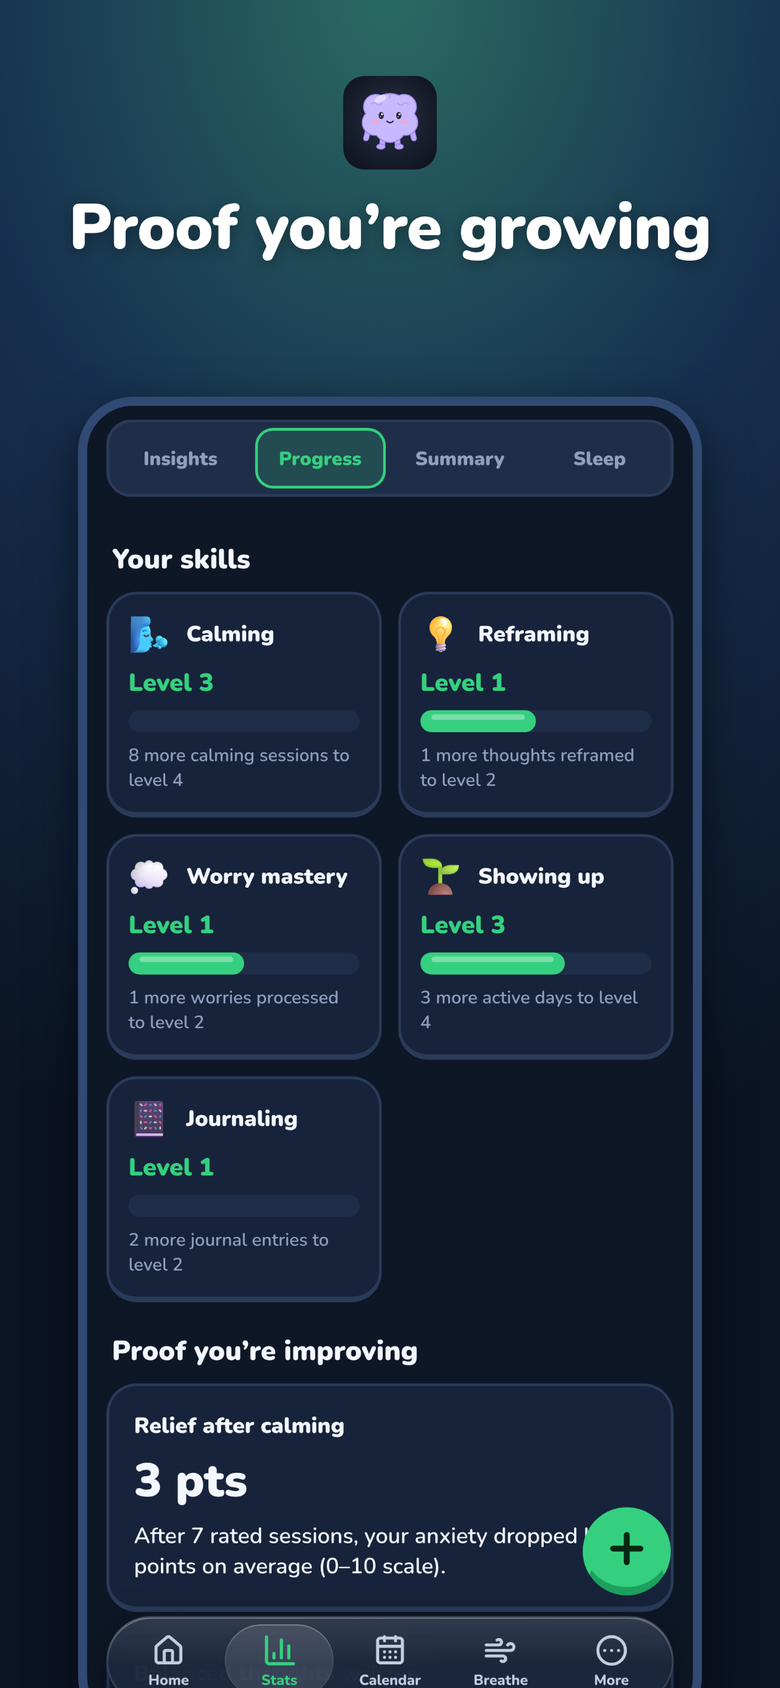
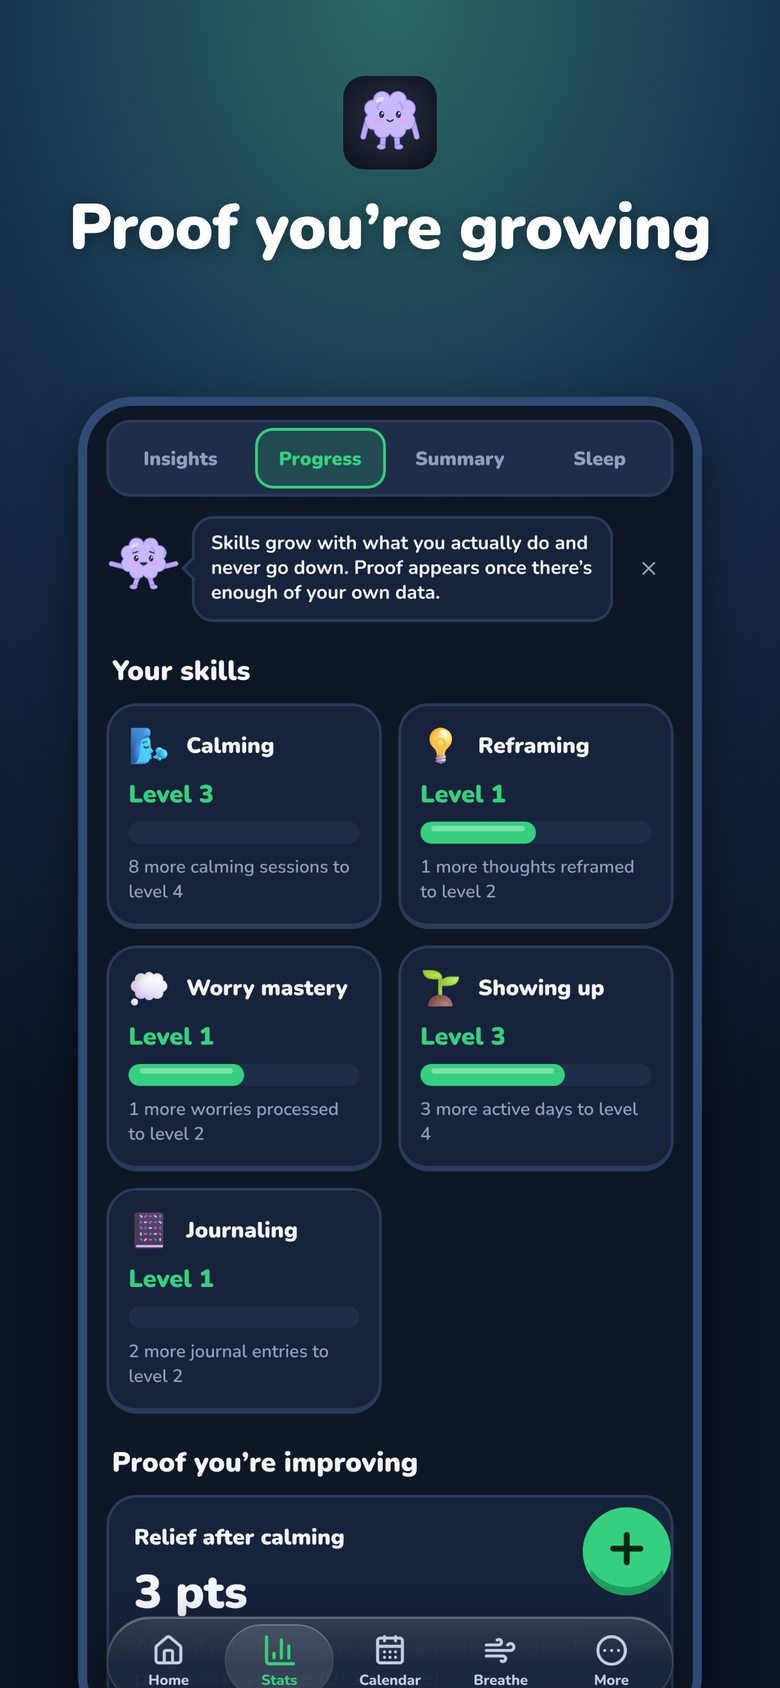
Home tools strip scrolls (Thoughts leads; Sleep, Progress, Summary, Coins added), Pal tips in every section, splash screen; fix coin toast that could stay forever
- Entries: tools row is a sideways-scrolling strip; 'All entries' row at the bottom is now the Thoughts tile; Sleep/Progress/Summary/Coins open as full screens
- PalTip: one-line tip per section, dismiss persists, More -> Show Pal's tips again
- Splash component + static boot markup in index.html instead of 'Loading…'
- Bug: the '+N coins' toast timer lived in an effect that re-ran when coins changed again (spend, undo), cancelling the hide; own timer now. e2e failed before the fix
- e2e: 67 tests; store screenshots regenerated with the new Pal

Claude-Session: https://claude.ai/code/session_01NENw22NRLju7qRwaXWFpgL

diff --git a/src/App.tsx b/src/App.tsx
@@ -20,6 +20,11 @@ import ParkWorry from './components/ParkWorry'
 import { JournalEditor, JournalList } from './components/Journal'
 import FocusFlow from './components/FocusFlow'
 import Onboarding from './components/Onboarding'
+import Splash from './components/Splash'
+import Sleep from './components/Sleep'
+import Progress from './components/Progress'
+import Summary from './components/Summary'
+import Wallet from './components/Wallet'
 import type { JournalEntry } from './lib/journal.ts'
 
 type Tab = 'entries' | 'stats' | 'calendar' | 'breathe' | 'more'
@@ -40,16 +45,18 @@ function Shell() {
   const finishOnboarding = () => { try { localStorage.setItem('bp.onboarded', '1') } catch { /* ignore */ } setOnboarded(true) }
   useEffect(() => { if (ready && !onboarded && hasData) finishOnboarding() }, [ready, onboarded, hasData])   // people who already use the app never see it
   useGuardRelock()
-  const [coinToast, setCoinToast] = useState(0)
+  const [coinToast, setCoinToast] = useState<{ n: number; id: number } | null>(null)
   const lastCoins = useRef<number | null>(null)
   // A quiet "+N coins" when you earn some (never on load, never when coins drop from spending).
   useEffect(() => {
     if (!ready) return
     const prev = lastCoins.current; lastCoins.current = coins
-    if (prev !== null && coins > prev) { setCoinToast(coins - prev); const t = setTimeout(() => setCoinToast(0), 2600); return () => clearTimeout(t) }
+    if (prev !== null && coins > prev) setCoinToast({ n: coins - prev, id: Date.now() + Math.random() })
   }, [ready, coins])
+  // Its own timer: a later change in coins (spending, undoing an entry) must never cancel the hide.
+  useEffect(() => { if (!coinToast) return; const t = setTimeout(() => setCoinToast(null), 2600); return () => clearTimeout(t) }, [coinToast])
   const [tab, setTab] = useState<Tab>('entries')
-  const [screen, setScreen] = useState<'guard' | 'journal' | 'entries' | 'search' | null>(null)   // full-screen pages opened from Home
+  const [screen, setScreen] = useState<'guard' | 'journal' | 'thoughts' | 'search' | 'sleep' | 'progress' | 'summary' | 'coins' | null>(null)   // full-screen pages opened from Home
   const [menu, setMenu] = useState(false)
   const [composeAt, setComposeAt] = useState<Date | null>(null)
   const [otherDay, setOtherDay] = useState(false)
@@ -94,7 +101,7 @@ function Shell() {
   const overlayOpen = !!screen || menu || !!composeAt || sos || worryTime || park || focusOpen || !!journalOpen || !!cel
   const nativeBar = useNativeTabs(NATIVE_ITEMS, tab, !ready || needsLogin || recovery || (!onboarded && !hasData) || overlayOpen, id => { setMoreView(null); setTab(id as Tab) })
 
-  if (!ready) return <div className="center-screen muted">Loading…</div>
+  if (!ready) return <Splash />
   if (needsLogin || recovery) return <Login />
   if (!onboarded && !hasData) return <Onboarding onDone={finishOnboarding} />
 
@@ -104,7 +111,7 @@ function Shell() {
   return (
     <>
       <div className="app">
-        {tab === 'entries' && <Entries onTool={(t: HomeTool) => (t === 'worry' ? setWorryTime(true) : setScreen(t))} onAllEntries={search => setScreen(search ? 'search' : 'entries')} onStep={() => setFocusOpen(true)} onCompose={m => { setComposeMood(m); setComposeAt(new Date()) }} onWorry={() => setWorryTime(true)} onBreathe={() => setTab('breathe')} onAllAnchors={() => setCel({ emoji: 'trophy', title: 'Every anchor done!', sub: 'You showed up for yourself today. That counts.' })} onSos={() => setSos(true)} onSupport={() => { setMoreView('support'); setTab('more') }} />}
+        {tab === 'entries' && <Entries onTool={(t: HomeTool) => (t === 'worry' ? setWorryTime(true) : setScreen(t))} onAllEntries={() => setScreen('search')} onStep={() => setFocusOpen(true)} onCompose={m => { setComposeMood(m); setComposeAt(new Date()) }} onWorry={() => setWorryTime(true)} onBreathe={() => setTab('breathe')} onAllAnchors={() => setCel({ emoji: 'trophy', title: 'Every anchor done!', sub: 'You showed up for yourself today. That counts.' })} onSos={() => setSos(true)} onSupport={() => { setMoreView('support'); setTab('more') }} />}
         {tab === 'stats' && <Stats />}
         {tab === 'calendar' && <CalendarPage onNewOn={d => { const n = new Date(); d.setHours(n.getHours(), n.getMinutes()); start(d) }} />}
         {tab === 'breathe' && <Breathe onSos={() => setSos(true)} />}
@@ -152,12 +159,16 @@ function Shell() {
       {composeAt && <NewEntry date={composeAt} initialMood={composeMood} onSaved={() => { setComposeAt(null); setTab(t => (t === 'calendar' ? t : 'entries')); setCel({ emoji: 'party', title: 'Entry saved!', sub: 'Checking in with yourself is a skill — you just practised it.' }) }} onClose={() => { setComposeAt(null); setTab(t => (t === 'calendar' ? t : 'entries')) }} />}
       {screen === 'guard' && <Screen title="Focus guard" onClose={() => setScreen(null)}><Guard /></Screen>}
       {screen === 'journal' && <Screen title="Journal" onClose={() => setScreen(null)}><JournalList onOpen={e => setJournalOpen({ entry: e })} onWrite={() => setJournalOpen({})} /></Screen>}
-      {(screen === 'entries' || screen === 'search') && <AllEntries search={screen === 'search'} onClose={() => setScreen(null)} />}
+      {(screen === 'thoughts' || screen === 'search') && <AllEntries search={screen === 'search'} onClose={() => setScreen(null)} />}
+      {screen === 'sleep' && <Screen title="Sleep" onClose={() => setScreen(null)}><Sleep /></Screen>}
+      {screen === 'progress' && <Screen title="Progress" onClose={() => setScreen(null)}><Progress /></Screen>}
+      {screen === 'summary' && <Screen title="Summary" onClose={() => setScreen(null)}><Summary /></Screen>}
+      {screen === 'coins' && <Screen title="Coins" onClose={() => setScreen(null)}><Wallet /></Screen>}
       {focusOpen && <FocusFlow onClose={() => setFocusOpen(false)} />}
       {journalOpen && <JournalEditor entry={journalOpen.entry} onClose={() => setJournalOpen(null)} onSaved={() => { const edited = !!journalOpen.entry; setJournalOpen(null); if (!edited) setCel({ emoji: 'notebook', title: 'Saved to your journal', sub: 'Writing it down counts — thank you for taking the time.' }) }} />}
       {park && <ParkWorry onClose={() => setPark(false)} onOpenWorryTime={() => { setPark(false); setWorryTime(true) }} />}
       {worryTime && <WorryTime onClose={() => setWorryTime(false)} />}
-      {coinToast > 0 && <div className="coin-toast" role="status"><Emoji name="star" size={20} /> +{coinToast} {coinToast === 1 ? 'coin' : 'coins'}</div>}
+      {coinToast && <div className="coin-toast" role="status"><Emoji name="star" size={20} /> +{coinToast.n} {coinToast.n === 1 ? 'coin' : 'coins'}</div>}
       {cel && <Celebrate c={cel} onClose={() => setCel(null)} />}
     </>
   )

diff --git a/src/pages/Entries.tsx b/src/pages/Entries.tsx
@@ -13,23 +13,29 @@ import { worryStats } from '../lib/worries'
 import { loadGuard } from '../lib/extras'
 import { monthLabel } from '../components/ui'
 import EntryCard from '../components/EntryCard'
-import { PalEmpty } from '../components/Pal'
+import { PalEmpty, PalTip } from '../components/Pal'
 
 const dayNum = (iso: string) => { const d = new Date(iso); return Math.floor(new Date(d.getFullYear(), d.getMonth(), d.getDate()).getTime() / 864e5) }
 
-export type HomeTool = 'guard' | 'worry' | 'journal'
+export type HomeTool = 'thoughts' | 'journal' | 'worry' | 'guard' | 'sleep' | 'progress' | 'summary' | 'coins'
 
 /** Home: today's check-in, the secondary tools, anchors and today's entries. */
 export default function Entries({ onTool, onAllEntries, onSos, onSupport, onAllAnchors, onCompose, onWorry, onBreathe, onStep }: { onTool: (t: HomeTool) => void; onAllEntries: (search?: boolean) => void; onSos: () => void; onSupport: () => void; onAllAnchors: () => void; onCompose: (mood: number) => void; onWorry: () => void; onBreathe: () => void; onStep: () => void }) {
-  const { thoughts, deleteThought, streak, anchors, worries, journal } = useStore()
+  const { thoughts, deleteThought, streak, anchors, worries, journal, coins } = useStore()
   const [editAnchors, setEditAnchors] = useState(false)
   const todayKey = dayKey(new Date())
   const today = useMemo(() => thoughts.filter(t => dayKey(t.createdAt) === todayKey), [thoughts, todayKey])
   const parked = worryStats(worries).open
+  // A strip you can scroll sideways: thoughts lead, then the things that used to be buried in Stats and More.
   const tools: { id: HomeTool; emoji: string; label: string; sub: string }[] = [
-    { id: 'guard', emoji: 'shield', label: 'Focus guard', sub: loadGuard().enabled ? 'On' : 'Off' },
-    { id: 'worry', emoji: 'worry', label: 'Worry time', sub: parked ? `${parked} parked` : 'Nothing parked' },
+    { id: 'thoughts', emoji: 'nib', label: 'Thoughts', sub: thoughts.length ? `${thoughts.length} ${thoughts.length === 1 ? 'entry' : 'entries'}` : 'All entries' },
     { id: 'journal', emoji: 'notebook', label: 'Journal', sub: journal.length ? `${journal.length} ${journal.length === 1 ? 'entry' : 'entries'}` : 'Write' },
+    { id: 'worry', emoji: 'worry', label: 'Worry time', sub: parked ? `${parked} parked` : 'Nothing parked' },
+    { id: 'guard', emoji: 'shield', label: 'Focus guard', sub: loadGuard().enabled ? 'On' : 'Off' },
+    { id: 'sleep', emoji: 'sleep', label: 'Sleep', sub: 'Last night' },
+    { id: 'progress', emoji: 'chart', label: 'Progress', sub: 'Your levels' },
+    { id: 'summary', emoji: 'memo', label: 'Summary', sub: 'Week in words' },
+    { id: 'coins', emoji: 'star', label: 'Coins', sub: String(coins) },
   ]
 
   return (
@@ -48,9 +54,10 @@ export default function Entries({ onTool, onAllEntries, onSos, onSupport, onAllA
         </div>
       )}
       <TodayCard onDetails={onCompose} onWorry={onWorry} onBreathe={onBreathe} onStep={onStep} />
+      <PalTip id="home-tools" pose="wave">Swipe this row sideways: thoughts, journal, sleep, progress and more live here.</PalTip>
       <div className="tools-row" role="group" aria-label="Tools">
         {tools.map(t => (
-          <button key={t.id} className="card tool" onClick={() => onTool(t.id)}>
+          <button key={t.id} className={`card tool ${t.id === 'thoughts' ? 'lead' : ''}`} onClick={() => onTool(t.id)}>
             <Emoji name={t.emoji} size={34} /><b>{t.label}</b><span className="sub">{t.sub}</span>
           </button>
         ))}
@@ -67,9 +74,6 @@ export default function Entries({ onTool, onAllEntries, onSos, onSupport, onAllA
         </button>
       )}
       {today.map(t => <EntryCard key={t.id} t={t} onDelete={deleteThought} />)}
-      <button className="card row all-entries" onClick={() => onAllEntries()}>
-        <Emoji name="memo" size={28} /><span style={{ flex: 1 }}>All entries</span><span className="muted small">{thoughts.length}</span><ChevronRight size={20} className="muted" />
-      </button>
 
       {editAnchors && <Sheet onClose={() => setEditAnchors(false)}><div className="sheet-scroll"><div className="row spread"><b style={{ fontSize: 20 }}>Daily anchors</b><button className="linkbtn" onClick={() => setEditAnchors(false)}>Done</button></div><AnchorsManager /></div></Sheet>}
     </>
@@ -92,6 +96,7 @@ export function AllEntries({ search = false, onClose }: { search?: boolean; onCl
 
   return (
     <Screen title="Entries" onClose={onClose} right={<button className="glass round green" aria-label="Search" onClick={() => { setSearching(!searching); setQ('') }}><Search size={24} /></button>}>
+      <PalTip id="thoughts" pose="think">Every thought record, month by month. Tap one to open it, or search for a word, feeling or tag.</PalTip>
       <div className="navmonth month-row">
         <button className="arrow" aria-label="Previous month" onClick={() => shift(-1)}><ChevronLeft size={20} /></button>
         <span className="title">{monthLabel(month)}</span>

diff --git a/src/styles.css b/src/styles.css
@@ -386,8 +386,9 @@ input.input[type=time], input.input[type=date] { -webkit-appearance: none; appea
 .rep-btn { min-height: 72px; font-size: 22px; }
 
 /* Home: secondary tools row */
-.tools-row { display: grid; grid-template-columns: repeat(3, 1fr); gap: 10px; margin-bottom: 14px; }
-.card.tool { margin: 0; padding: 12px 6px; display: flex; flex-direction: column; align-items: center; gap: 4px; text-align: center; min-width: 0; }
+.tools-row { display: flex; gap: 10px; margin: 0 -14px 14px; padding: 2px 14px 8px; overflow-x: auto; scroll-snap-type: x proximity; scrollbar-width: none; -webkit-overflow-scrolling: touch; }
+.tools-row::-webkit-scrollbar { display: none; }
+.card.tool { flex: 0 0 106px; scroll-snap-align: start; margin: 0; padding: 12px 6px; display: flex; flex-direction: column; align-items: center; gap: 4px; text-align: center; min-width: 0; }
 .tool b { font-size: 14px; line-height: 1.15; } .tool .sub { font-size: 12px; font-weight: 700; color: var(--muted); }
 .all-entries { width: 100%; text-align: left; }
 
@@ -410,3 +411,14 @@ input.input[type=time], input.input[type=date] { -webkit-appearance: none; appea
 .notes-tools button.on { color: var(--accent); background: rgba(255,255,255,.1); }
 .notes-count { flex: 1; text-align: center; color: var(--muted); font-size: 13px; font-weight: 700; }
 .notes-panel { bottom: calc(var(--safe-b) + 66px); left: 10px; right: 10px; max-width: 620px; padding: 14px; border-radius: 24px; }
+
+/* ---- splash ---- */
+.splash { min-height: 100dvh; display: grid; place-content: center; justify-items: center; gap: 6px; background: var(--bg); text-align: center; }
+.splash h1 { margin: 6px 0 0; font-size: 32px; letter-spacing: -.01em; }
+.splash p { margin: 0; color: var(--muted); font-weight: 700; }
+.card.tool.lead { border-color: var(--accent); }
+
+.pal-tip { display: flex; align-items: center; gap: 8px; margin: 0 0 12px; }
+.pal-tip .bubble { position: relative; flex: 1; background: var(--card); border: 2px solid var(--edge); border-radius: 16px; padding: 9px 12px; font-size: 14px; font-weight: 700; line-height: 1.3; }
+.pal-tip .bubble::before { content: ''; position: absolute; left: -7px; top: 50%; width: 11px; height: 11px; background: var(--card); border-left: 2px solid var(--edge); border-bottom: 2px solid var(--edge); transform: translateY(-50%) rotate(45deg); }
+.pal-tip .x { width: 36px; height: 36px; border-radius: 50%; display: grid; place-items: center; color: var(--muted); flex: none; }

diff --git a/src/pages/More.tsx b/src/pages/More.tsx
@@ -16,6 +16,7 @@ import { JournalList } from '../components/Journal'
 import Rituals from '../components/Rituals'
 import Wallet from '../components/Wallet'
 import Legal from '../components/Legal'
+import { PalTip, resetTips } from '../components/Pal'
 import Guard from '../components/Guard'
 import { loadGuard } from '../lib/extras'
 import { APP_VERSION } from '../lib/appInfo.ts'
@@ -38,6 +39,7 @@ export default function More({ initial = null, onWorry, onJournal }: { initial?:
   const [health, setHealth] = useState(healthEnabled)
   const [healthMsg, setHealthMsg] = useState('')
   const [msg, setMsg] = useState('')
+  const [tipsBack, setTipsBack] = useState(false)
   const photos = thoughts.flatMap(t => t.photos)
   const meta = session?.user.user_metadata?.name as string | undefined
   const name = meta || session?.user.email?.split('@')[0]
@@ -172,6 +174,7 @@ export default function More({ initial = null, onWorry, onJournal }: { initial?:
         <span className="glass pill-btn">{name ? `Hi, ${name}` : 'Hi there'}</span>
       </div>
 
+      <PalTip id="more" pose="idle">Reminders, Apple Health, your account and everything else live here.</PalTip>
       <div className="list">
         {mode === 'cloud' && <Row icon={<Emoji name="sunglasses" size={30} />} color="var(--card2)" label="Account" value={name} onClick={() => setView('account')} />}
         <Row icon={<Emoji name="star" size={30} />} color="var(--card2)" label="Coins" value={String(coins)} onClick={() => setView('coins')} />
@@ -191,6 +194,7 @@ export default function More({ initial = null, onWorry, onJournal }: { initial?:
         <Row icon={<Emoji name="sparkles" size={30} />} color="var(--card2)" label="About & legal" onClick={() => setView('legal')} />
         {mode === 'cloud' && <Row icon={<LogOut size={24} />} color="var(--card2)" label="Sign out" onClick={doSignOut} />}
       </div>
+      <p className="muted small" style={{ textAlign: 'center' }}><button className="linkbtn" onClick={() => { resetTips(); setTipsBack(true) }} disabled={tipsBack}>{tipsBack ? 'Pal’s tips are back' : 'Show Pal’s tips again'}</button></p>
       <p className="muted small" style={{ textAlign: 'center' }}>Brain Pal {APP_VERSION} · {thoughts.length} entries · {sessions.length} breathing sessions</p>
     </>
   )

diff --git a/src/components/Pal.tsx b/src/components/Pal.tsx
@@ -1,4 +1,5 @@
-import { useMemo, type ReactNode } from 'react'
+import { useMemo, useState, type ReactNode } from 'react'
+import { X } from 'lucide-react'
 import { palSvg, POSE_LABEL, type PoseName } from '../lib/pal.ts'
 
 export type PalMotion = 'bob' | 'wave' | 'breathe' | 'jump' | 'none'
@@ -17,4 +18,22 @@ export function PalSays({ pose = 'idle', size = 84, motion = 'bob', children }: 
 /** Empty state: Pal and one kind sentence instead of a grey box. */
 export function PalEmpty({ pose = 'think', children }: { pose?: PoseName; children: ReactNode }) {
   return <div className="card pal-empty"><Pal pose={pose} size={88} /><p>{children}</p></div>
+}
+
+const TIPS_KEY = 'bp.tips.off'
+const tipsOff = (): string[] => { try { const v = JSON.parse(localStorage.getItem(TIPS_KEY) ?? '[]'); return Array.isArray(v) ? v.filter((x): x is string => typeof x === 'string') : [] } catch { return [] } }
+export const resetTips = () => { try { localStorage.removeItem(TIPS_KEY) } catch { /* ignore */ } }
+
+/** Pal says what to do in this section, once: dismiss it and it stays away (More → "Show Pal's tips again" brings them back). */
+export function PalTip({ id, pose = 'think', children }: { id: string; pose?: PoseName; children: ReactNode }) {
+  const [off, setOff] = useState(() => tipsOff().includes(id))
+  if (off) return null
+  const hide = () => { try { localStorage.setItem(TIPS_KEY, JSON.stringify([...new Set([...tipsOff(), id])])) } catch { /* ignore */ } setOff(true) }
+  return (
+    <div className="pal-tip" role="note" aria-label="Tip from Pal">
+      <Pal pose={pose} size={54} />
+      <span className="bubble">{children}</span>
+      <button className="x" aria-label="Hide this tip" onClick={hide}><X size={16} /></button>
+    </div>
+  )
 }

diff --git a/src/pages/Breathe.tsx b/src/pages/Breathe.tsx
@@ -1,6 +1,6 @@
 import { useState } from 'react'
 import { useStore } from '../lib/store'
-import Pal from '../components/Pal'
+import { PalTip } from '../components/Pal'
 import BreathRunner, { type BreathResult } from '../components/BreathRunner'
 import { Toggle } from '../components/ui'
 import { Emoji } from '../lib/emoji'
@@ -53,8 +53,8 @@ export default function Breathe({ onSos }: { onSos: () => void }) {
         ? <div className="card"><BreathRunner pattern={pattern} cycles={cycles} vibrate={vibrate} sound={sound} onFinish={finish} /></div>
         : <>
           {done && <div className="card" style={{ textAlign: 'center' }}><Emoji name="lotus" size={64} /><div style={{ fontWeight: 900, fontSize: 20, marginTop: 6 }}>Nice work!</div><div className="muted">{done.cycles} rounds · {Math.floor(done.sec / 60)}m {done.sec % 60}s logged</div></div>}
+          <PalTip id="breathe" pose="breatheIn">Pick a pattern and follow the circle. A long, slow breath out is the secret.</PalTip>
           <div className="card">
-            <div style={{ display: 'grid', placeItems: 'center', marginBottom: 6 }}><Pal pose="breatheIn" motion="breathe" size={96} /></div>
             <div className="seg" role="tablist" aria-label="Pattern">
               {Object.keys(PRESETS).map(p => <button key={p} className={p === preset ? 'on' : ''} onClick={() => setPreset(p)}>{p}</button>)}
             </div>

diff --git a/index.html b/index.html
@@ -11,9 +11,16 @@
     <link rel="icon" type="image/svg+xml" href="/icon.svg" />
     <link rel="apple-touch-icon" href="/apple-touch-icon.png" />
     <title>Brain Pal</title>
+    <style>
+      html, body { margin: 0; background: #0e1726; }
+      .boot { min-height: 100dvh; display: grid; place-content: center; justify-items: center; gap: 14px; color: #e8edf8; font: 800 26px/1 system-ui, sans-serif; }
+      .boot img { border-radius: 28px; animation: bootBob 2.6s ease-in-out infinite; }
+      @keyframes bootBob { 50% { transform: translateY(-6px); } }
+      @media (prefers-reduced-motion: reduce) { .boot img { animation: none; } }
+    </style>
   </head>
   <body>
-    <div id="root"></div>
+    <div id="root"><div class="boot" aria-label="Brain Pal is loading"><img src="/icon-192.png" alt="" width="120" height="120" /><b>Brain Pal</b></div></div>
     <script type="module" src="/src/main.tsx"></script>
   </body>
 </html>

diff --git a/src/components/Journal.tsx b/src/components/Journal.tsx
@@ -1,7 +1,7 @@
 import { useEffect, useLayoutEffect, useMemo, useRef, useState } from 'react'
 import { ChevronLeft, Search, Smile, Tag, Trash2 } from 'lucide-react'
 import Face from './Face'
-import { PalEmpty } from './Pal'
+import { PalEmpty, PalTip } from './Pal'
 import Support from './Support'
 import { Emoji } from '../lib/emoji'
 import { MOODS } from '../lib/mood'
@@ -107,6 +107,7 @@ export function JournalList({ onOpen, onWrite }: { onOpen: (e: JournalEntry) => 
 
   return (
     <>
+      <PalTip id="journal" pose="think">Write anything. A line is enough. Only you can read it.</PalTip>
       <button className="btn primary block" onClick={onWrite} style={{ marginBottom: 14 }}>Write something</button>
       {journal.length > 0 && <>
         <div className="searchbar"><Search size={20} /><input aria-label="Search journal" placeholder="Search your journal" value={q} onChange={e => setQ(e.target.value)} /></div>

diff --git a/src/pages/CalendarPage.tsx b/src/pages/CalendarPage.tsx
@@ -1,3 +1,4 @@
+import { PalTip } from '../components/Pal'
 import { useMemo, useState } from 'react'
 import { ChevronLeft, ChevronRight, Plus } from 'lucide-react'
 import { useStore } from '../lib/store'
@@ -45,6 +46,7 @@ export default function CalendarPage({ onNewOn }: { onNewOn: (d: Date) => void }
         <button className="glass round green" aria-label="Next" disabled={isNow} onClick={() => setMonth(new Date(month.getFullYear(), month.getMonth() + 1, 1))}><ChevronRight /></button>
       </div>
 
+      <PalTip id="calendar" pose="wave">Tap a day to look back, or tap a + to add how you felt that day.</PalTip>
       <div className="card">
         <div className="cal">
           {['Mon', 'Tue', 'Wed', 'Thu', 'Fri', 'Sat', 'Sun'].map(d => <div className="dow" key={d}>{d}</div>)}

diff --git a/src/components/Sleep.tsx b/src/components/Sleep.tsx
@@ -1,3 +1,4 @@
+import { PalTip } from './Pal'
 import { useMemo, useState } from 'react'
 import Face from './Face'
 import { useStore } from '../lib/store'
@@ -44,6 +45,7 @@ export default function Sleep() {
 
   return (
     <>
+      <PalTip id="sleep" pose="sleepy">{native ? 'Connect Apple Health to see last night next to your mood.' : 'Log last night by hand and I’ll show how sleep and mood go together.'}</PalTip>
       {native && !sleepOn && <div className="card">
         <b>Show your sleep from Apple Health</b>
         <p className="muted small">Brain Pal can read your sleep (for example from your Apple Watch) to show it next to your mood. It reads <i>only</i> sleep, keeps it on this device, and never sends it anywhere. You can disconnect any time.</p>

diff --git a/src/pages/Stats.tsx b/src/pages/Stats.tsx
@@ -1,3 +1,4 @@
+import { PalTip } from '../components/Pal'
 import { useMemo, useState } from 'react'
 import { Check, ChevronLeft, ChevronRight, Plus } from 'lucide-react'
 import { useStore } from '../lib/store'
@@ -88,6 +89,7 @@ function Insights() {
 
   return (
     <>
+      <PalTip id="insights" pose="think">Patterns show up after a few check-ins. Keep logging and I’ll point out what I notice.</PalTip>
       <div className="topbar flat">
         <button className="glass round green" aria-label="Previous" onClick={() => setMonth(new Date(month.getFullYear(), month.getMonth() - 1, 1))}><ChevronLeft /></button>
         <span className="title">{monthLabel(month)}</span>

diff --git a/src/components/Summary.tsx b/src/components/Summary.tsx
@@ -1,3 +1,4 @@
+import { PalTip } from './Pal'
 import { useMemo, useState } from 'react'
 import { Share2 } from 'lucide-react'
 import { useStore } from '../lib/store'
@@ -29,6 +30,7 @@ export default function Summary() {
 
   return (
     <>
+      <PalTip id="summary" pose="idle">Your day, week or month in plain words. Tap share to send it to someone you trust.</PalTip>
       <div className="seg" role="tablist" aria-label="Summary range" style={{ marginBottom: 14 }}>
         {RANGES.map(x => <button key={x.id} role="tab" aria-selected={range === x.id} className={range === x.id ? 'on' : ''} onClick={() => { setRange(x.id); setMsg('') }}>{x.label}</button>)}
       </div>
